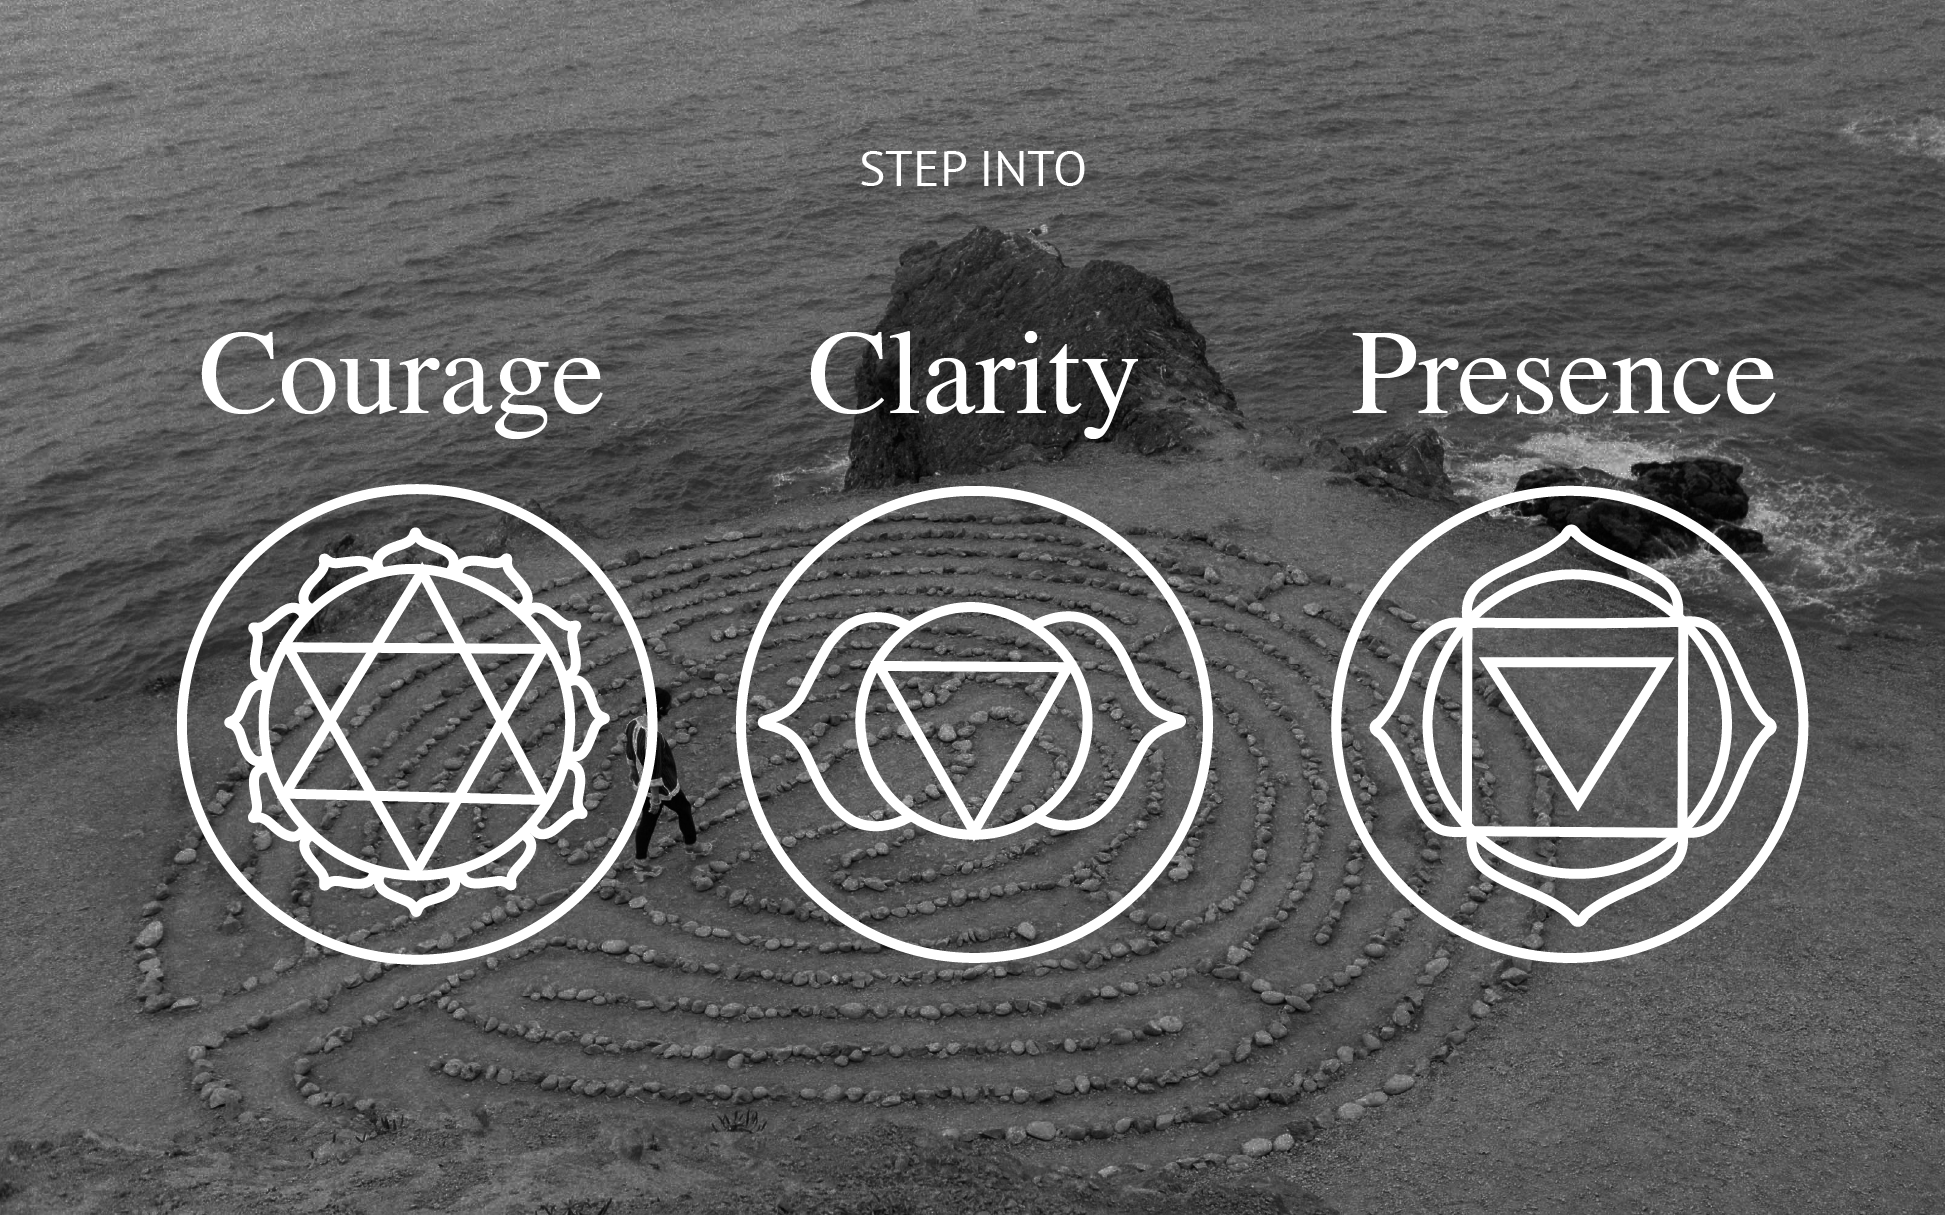
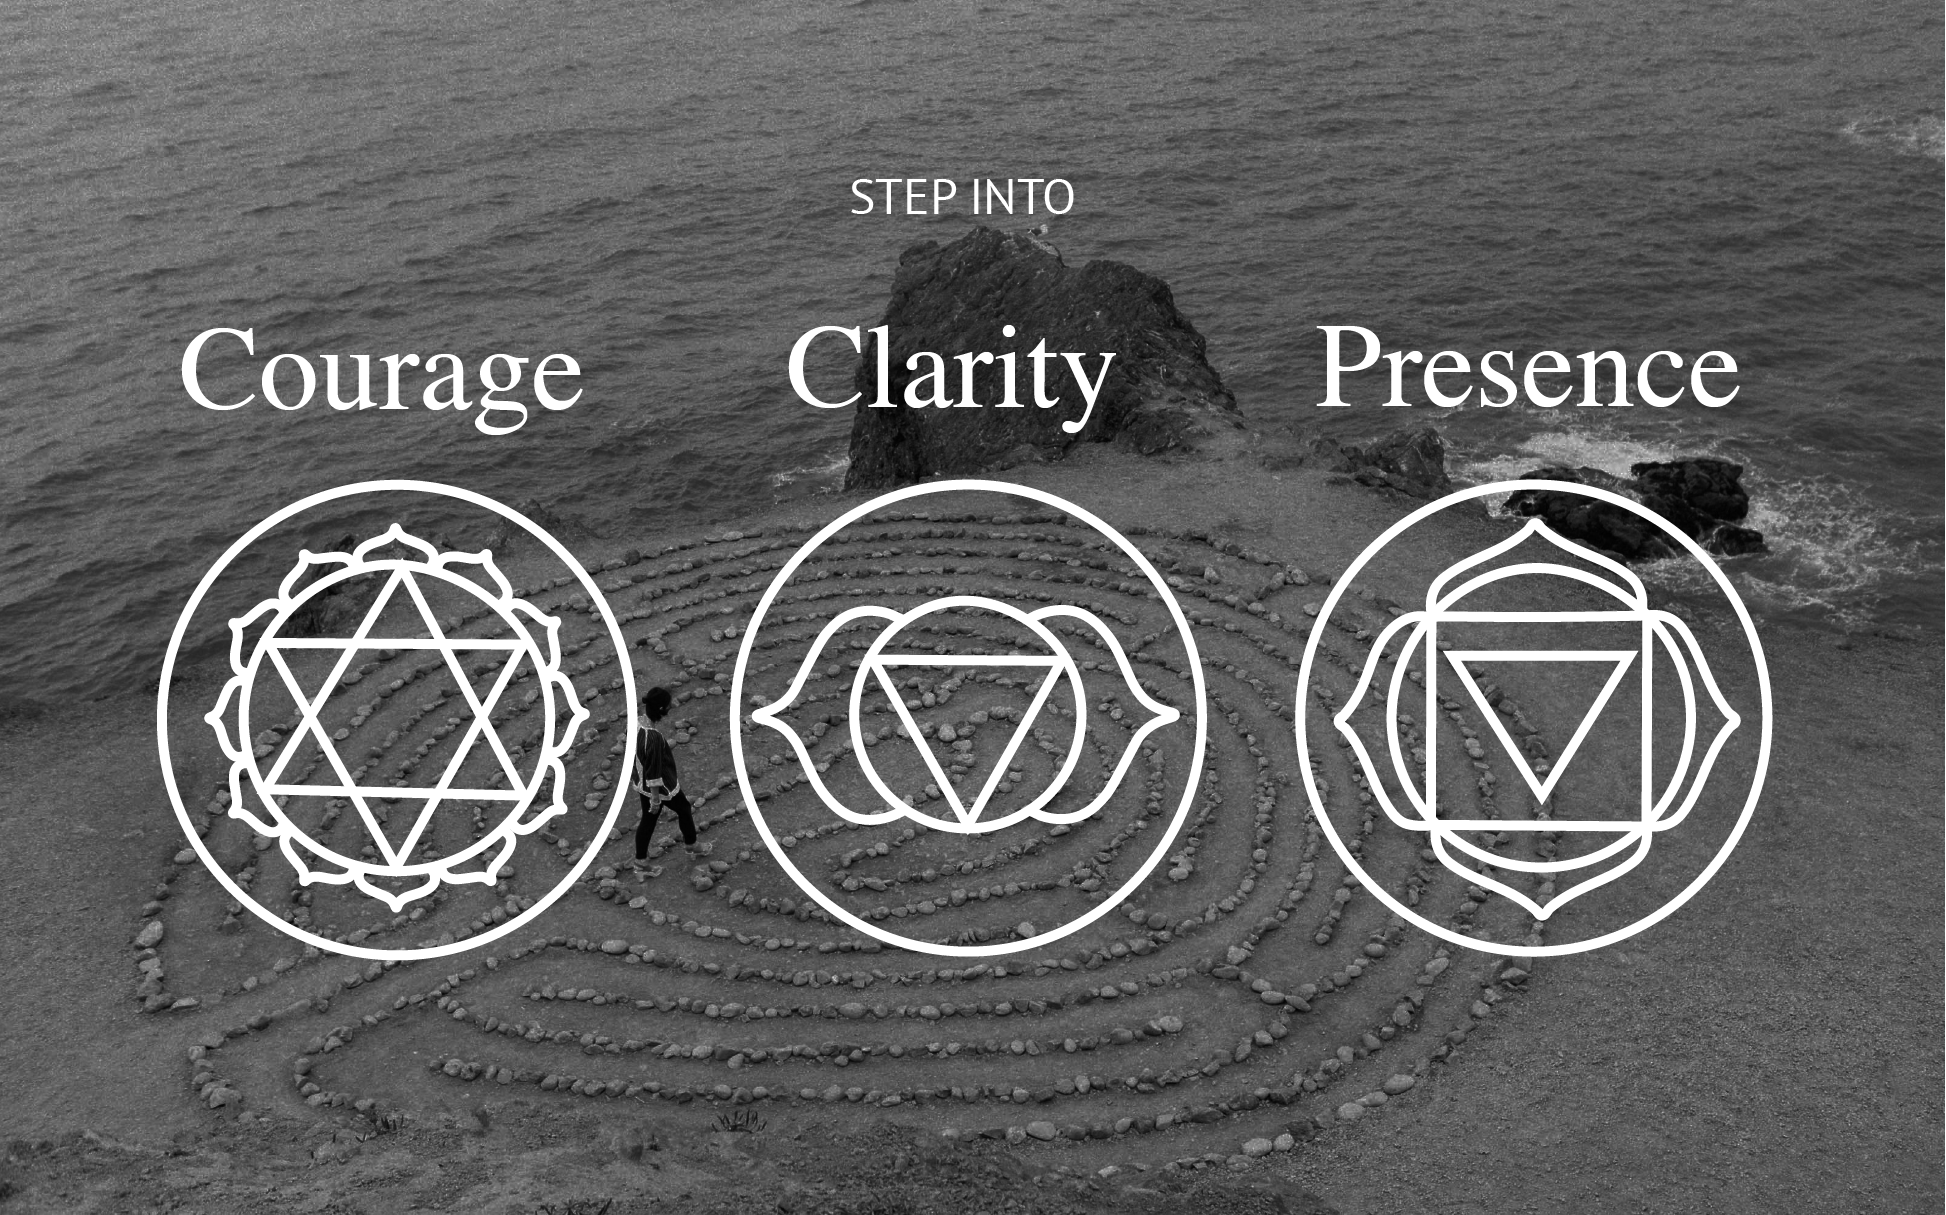
Import "neato-serif", sans-serif

diff --git a/src/pages/Work.js b/src/pages/Work.js
@@ -13,15 +13,18 @@ export default function Work() {
   return (
     <div className="container Work-Page">
       <div className="intro">
-        <h1>Work With Me.</h1>
+        <h1>Work With Rose.</h1>
         <p>
           When you are stuck in unhelpful patterns rooted in the past, it shows
           up in your daily life. The discomfort within you surfaces in different
-          ways. You may be emotionally overwhelmed and reactive, you may be
-          experiencing restlessness and mental agitation, low energy and
-          depression or physical symptoms. All these states indicate it’s time
-          for you turn your focus inwards and listen.{" "}
-          <strong>Life is leading you on a journey of self-discovery.</strong>
+          ways. All these states indicate it’s time for you turn your focus
+          inwards and listen.
+        </p>
+        <p>
+          <strong>
+            Come and explore how your body, mind and breath work together. Open
+            yourself to new dimensions of experience and personal growth.
+          </strong>
         </p>
       </div>
       <div className="work-cards">
@@ -29,7 +32,7 @@ export default function Work() {
           <div className="card">
             <Link to="/approach" className="card-link">
               <h2>My Approach</h2>
-              <h3 className="subtitle">FIND YOUR FLOW</h3>
+              <h3 className="subtitle">LEARN FROM EXPERIENCE</h3>
               <div className="work-image-container">
                 <BlurryImage
                   src={MyApproach}
@@ -43,8 +46,7 @@ export default function Work() {
                     alt="Overlay SVG"
                   />
                   <p>
-                    You have the capacity to{" "}
-                    <strong>transform yourself from the inside out.</strong>
+                    <strong>Transform from the inside out.</strong>
                   </p>
                 </div>
               </div>
@@ -67,8 +69,7 @@ export default function Work() {
                     alt="Overlay SVG"
                   />
                   <p>
-                    You have the capacity to{" "}
-                    <strong>transform yourself from the inside out.</strong>
+                    <strong>Share in the power of the collective.</strong>
                   </p>
                 </div>
               </div>
@@ -77,7 +78,7 @@ export default function Work() {
           <div className="card">
             <Link to="/onetoone" className="card-link">
               <h2>One-To-Ones</h2>
-              <h3 className="subtitle">COACHING & GUIDANCE</h3>
+              <h3 className="subtitle">COACHING & YOGA</h3>
               <div className="work-image-container">
                 <BlurryImage
                   src={OneToOnes}
@@ -91,8 +92,7 @@ export default function Work() {
                     alt="Overlay SVG"
                   />
                   <p>
-                    You have the capacity to{" "}
-                    <strong>transform yourself from the inside out.</strong>
+                    <strong>The path of self discovery</strong>
                   </p>
                 </div>
               </div>

diff --git a/src/components/OnlineGroupsSlider.js b/src/components/OnlineGroupsSlider.js
@@ -17,7 +17,7 @@ export default function OnlineGroupsSlider() {
       description:
         "Thursday nights are about releasing tension and moving into the parasympathetic nervous system, which allows the body to replenish and heal. This hour is a deeply restorative way to look after your health in these stressful times. Come and enjoy an hour to unwind and relax.",
       permanentDescription:
-        "You can join this class anywhere in the world on Zoom",
+        "You can join this class anywhere in the world on Zoom.",
       dates: ["Thu, Aug 1", "Thu, Aug 22", "Thu, Aug 29"],
       times: ["8:00-9:00pm", "8:00-9:00pm", "8:00-9:00pm"],
       dropInPrice: "£10",
@@ -29,7 +29,7 @@ export default function OnlineGroupsSlider() {
       description:
         "If you're looking for a fast way to regenerate your body, mind, and spirit, come and experience the magic of the breath. Deeply detoxifying, revitalising, and balancing, the practice of Pranayama has deep and lasting benefits.",
       permanentDescription:
-        "You can join this class anywhere in the world on Zoom",
+        "You can join this class anywhere in the world on Zoom.",
       dates: ["Wed, Aug 7", "Wed, Aug 21", "Tue, Aug 27"],
       times: ["7:00-7:30am", "7:00-7:30am", "7:00-7:30am"],
       dropInPrice: "£8",
@@ -41,7 +41,7 @@ export default function OnlineGroupsSlider() {
       description:
         "These 90-minute classes combine movement, breath, and sound. If you’re looking for an intense physical workout and a tangible experience of expansive awareness, this is for you. Kundalini Yoga is the fastest way to experience altered states of consciousness without substances.",
       permanentDescription:
-        "You can join this class anywhere in the world on Zoom",
+        "You can join this class anywhere in the world on Zoom.",
       dates: ["Sat, Aug 3", "Sat, Aug 24", "Sat, Aug 31"],
       times: ["8:00-9:00am", "8:00-9:00am", "8:00-9:00am"],
       dropInPrice: "£12",
@@ -53,7 +53,7 @@ export default function OnlineGroupsSlider() {
       description:
         "Meeting twice each month, this practice helps you drop into the natural rhythms of your body and the world. Women have practiced at the New and Full Moon for centuries to deepen awareness of their bodies and cyclical connection with nature. Set an intention with each New Moon and reflect and release with each Full Moon.",
       permanentDescription:
-        "You can join this class anywhere in the world on Zoom",
+        "You can join this class anywhere in the world on Zoom.",
       dates: ["Sat, Aug 3", "Tue, Aug 20"],
       times: ["8:00-9:30am", "8:00-9:00pm"],
       dropInPrice: "£12 (New Moon), £10 (Full Moon)",

diff --git a/src/pages/MembershipLanding.js b/src/pages/MembershipLanding.js
@@ -12,8 +12,7 @@ export default function MembershipLanding() {
         <img src={sunshine} alt="sunshine" />
         <p>
           I am currently working on a <strong>new membership page</strong> where
-          you will be able to login and find all purchased video replays as well
-          as some fresh free content.
+          you will be able to login and find a library of replays & resources.
         </p>
         <div className="current-deals">
           <h3>Current Monthly membership deals</h3>

diff --git a/src/styles/MembershipLanding.css b/src/styles/MembershipLanding.css
@@ -8,14 +8,28 @@
 }
 
 .MembershipPage img {
-  height: 150px;
+  height: 100px;
 }
 
 .current-deals {
-  margin-top: 80px;
+  margin: 80px auto;
+  display: block;
+  padding: 20px;
+  width: 70%;
+  border: 1px solid black;
 }
 
 .MembershipPage .general-button {
   width: 70%;
   margin-top: 30px;
+}
+
+@media (min-width: 300px) {
+  .current-deals {
+    margin: 10px auto;
+    display: block;
+    padding: 20px;
+    width: 70%;
+    border: 1px solid black;
+  }
 }

diff --git a/src/styles/App.css b/src/styles/App.css
@@ -1,4 +1,5 @@
 @import url("https://fonts.googleapis.com/css2?family=Jomolhari&family=Jost:ital,wght@0,100..900;1,100..900&display=swap");
+@import url("https://use.typekit.net/kli2wwi.css");
 @import "~slick-carousel/slick/slick.css";
 @import "~slick-carousel/slick/slick-theme.css";
 

diff --git a/src/components/Nav/RightNav.js b/src/components/Nav/RightNav.js
@@ -69,7 +69,7 @@ const RightNav = ({ open, closeMenu }) => {
       </li>
       <li>
         <Link to="/work" className="menu-link" onClick={closeMenu}>
-          Work With Me
+          Work With Rose
         </Link>
       </li>
       <li>

diff --git a/src/styles/Home.css b/src/styles/Home.css
@@ -8,7 +8,10 @@
 }
 
 .home-header h1 {
-  font-size: 35px;
+  font-size: 40px;
+  font-family: "neato-serif", sans-serif;
+  font-weight: 400;
+  font-style: normal;
   margin: 0;
 }
 
